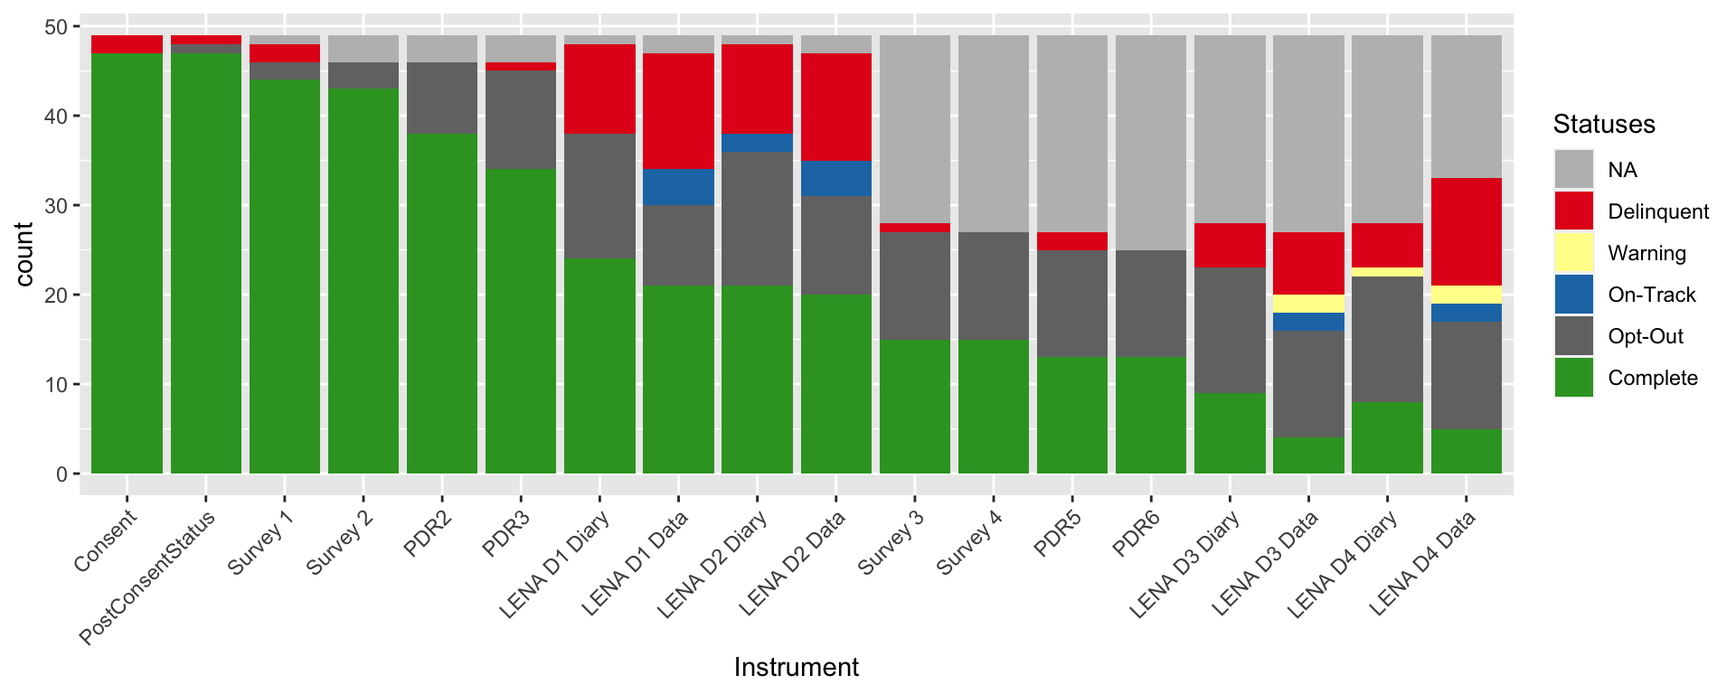
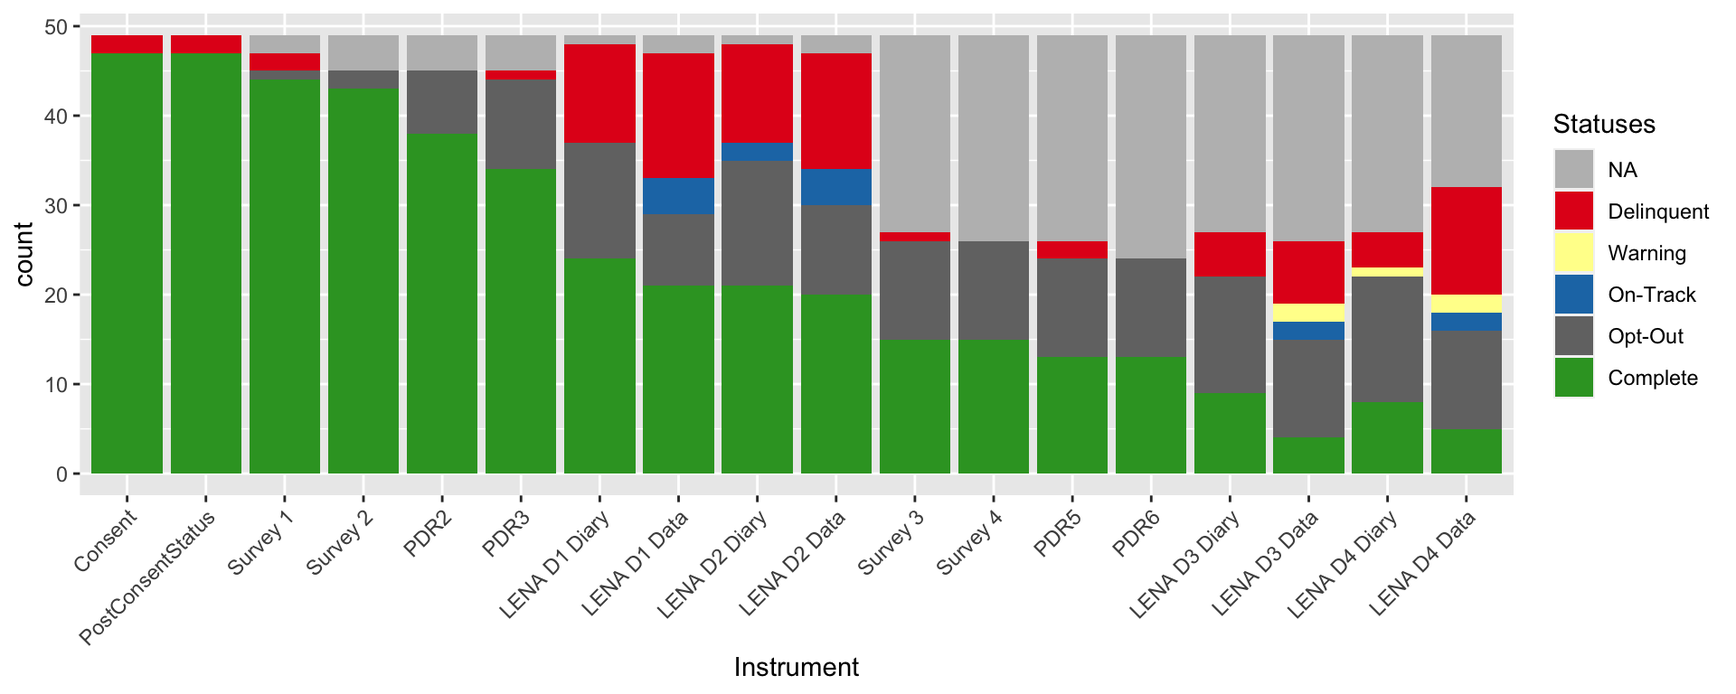
Updated case progression log, wave 2 dropouts.

diff --git a/_site/reports.html b/_site/reports.html
@@ -399,7 +399,7 @@ $(document).ready(function () {
 </div>
 <center>
 <div id="htmlwidget-1fcff53b1c506bc87854" style="width:960px;height:384px;" class="plotly html-widget"></div>
-<script type="application/json" data-for="htmlwidget-1fcff53b1c506bc87854">{"x":{"data":[{"x":[1594210295,1595855440,1595947129,1596636699,1597147658,1597190400,1597276800,1597402867,1598436608,1598538979,1598541299,1598955066,1599570320,1600250194,1600255992,1600300800,1600355481,1600387200,1600863340,1601302221,1601566658,1602239005,1603368728,1603379955,1603670400,1603977413,1604491899,1604751373,1605089156,1605139200,1605179257,1605721538,1605872792,1607040000,1607472000,1607644800,1607687486,1609891200,1609897301,1611187200,1611878400,1612396800,1612396800,1612396800,1611878400,1611187200,1609897301,1609891200,1607687486,1607644800,1607472000,1607040000,1605872792,1605721538,1605179257,1605139200,1605089156,1604751373,1604491899,1603977413,1603670400,1603379955,1603368728,1602239005,1601566658,1601302221,1600863340,1600387200,1600355481,1600300800,1600255992,1600250194,1599570320,1598955066,1598541299,1598538979,1598436608,1597402867,1597276800,1597190400,1597147658,1596636699,1595947129,1595855440,1594210295,1594210295],"y":[0,0,0,0,0,0,0,0,0,0,0,0,0,0,0,0,0,0,0,0,0,0,0,0,0,0,0,0,0,0,0,0,0,0,0,0,0,0,0,0,0,0,0,43,42,41,40,39,38,37,36,35,34,33,32,31,30,29,28,27,26,25,24,23,22,21,20,19,18,17,16,15,14,13,12,11,10,9,8,6,5,4,3,2,1,0],"text":["InformedConsent: 2020-07-08 19:11:35<br />Cumulative:  1","InformedConsent: 2020-07-27 20:10:40<br />Cumulative:  2","InformedConsent: 2020-07-28 21:38:49<br />Cumulative:  3","InformedConsent: 2020-08-05 21:11:39<br />Cumulative:  4","InformedConsent: 2020-08-11 19:07:38<br />Cumulative:  5","InformedConsent: 2020-08-12 07:00:00<br />Cumulative:  6","InformedConsent: 2020-08-13 07:00:00<br />Cumulative:  8","InformedConsent: 2020-08-14 18:01:07<br />Cumulative:  9","InformedConsent: 2020-08-26 17:10:08<br />Cumulative: 10","InformedConsent: 2020-08-27 21:36:19<br />Cumulative: 11","InformedConsent: 2020-08-27 22:14:59<br />Cumulative: 12","InformedConsent: 2020-09-01 17:11:06<br />Cumulative: 13","InformedConsent: 2020-09-08 20:05:20<br />Cumulative: 14","InformedConsent: 2020-09-16 16:56:34<br />Cumulative: 15","InformedConsent: 2020-09-16 18:33:12<br />Cumulative: 16","InformedConsent: 2020-09-17 07:00:00<br />Cumulative: 17","InformedConsent: 2020-09-17 22:11:21<br />Cumulative: 18","InformedConsent: 2020-09-18 07:00:00<br />Cumulative: 19","InformedConsent: 2020-09-23 19:15:40<br />Cumulative: 20","InformedConsent: 2020-09-28 21:10:21<br />Cumulative: 21","InformedConsent: 2020-10-01 22:37:38<br />Cumulative: 22","InformedConsent: 2020-10-09 17:23:25<br />Cumulative: 23","InformedConsent: 2020-10-22 19:12:08<br />Cumulative: 24","InformedConsent: 2020-10-22 22:19:15<br />Cumulative: 25","InformedConsent: 2020-10-26 07:00:00<br />Cumulative: 26","InformedConsent: 2020-10-29 20:16:53<br />Cumulative: 27","InformedConsent: 2020-11-04 20:11:39<br />Cumulative: 28","InformedConsent: 2020-11-07 20:16:13<br />Cumulative: 29","InformedConsent: 2020-11-11 18:05:56<br />Cumulative: 30","InformedConsent: 2020-11-12 08:00:00<br />Cumulative: 31","InformedConsent: 2020-11-12 19:07:37<br />Cumulative: 32","InformedConsent: 2020-11-19 01:45:38<br />Cumulative: 33","InformedConsent: 2020-11-20 19:46:32<br />Cumulative: 34","InformedConsent: 2020-12-04 08:00:00<br />Cumulative: 35","InformedConsent: 2020-12-09 08:00:00<br />Cumulative: 36","InformedConsent: 2020-12-11 08:00:00<br />Cumulative: 37","InformedConsent: 2020-12-11 19:51:26<br />Cumulative: 38","InformedConsent: 2021-01-06 08:00:00<br />Cumulative: 39","InformedConsent: 2021-01-06 09:41:41<br />Cumulative: 40","InformedConsent: 2021-01-21 08:00:00<br />Cumulative: 41","InformedConsent: 2021-01-29 08:00:00<br />Cumulative: 42","InformedConsent: 2021-02-04 08:00:00<br />Cumulative: 43","InformedConsent: 2021-02-04 08:00:00<br />Cumulative: 43","InformedConsent: 2021-02-04 08:00:00<br />Cumulative: 43","InformedConsent: 2021-01-29 08:00:00<br />Cumulative: 42","InformedConsent: 2021-01-21 08:00:00<br />Cumulative: 41","InformedConsent: 2021-01-06 09:41:41<br />Cumulative: 40","InformedConsent: 2021-01-06 08:00:00<br />Cumulative: 39","InformedConsent: 2020-12-11 19:51:26<br />Cumulative: 38","InformedConsent: 2020-12-11 08:00:00<br />Cumulative: 37","InformedConsent: 2020-12-09 08:00:00<br />Cumulative: 36","InformedConsent: 2020-12-04 08:00:00<br />Cumulative: 35","InformedConsent: 2020-11-20 19:46:32<br />Cumulative: 34","InformedConsent: 2020-11-19 01:45:38<br />Cumulative: 33","InformedConsent: 2020-11-12 19:07:37<br />Cumulative: 32","InformedConsent: 2020-11-12 08:00:00<br />Cumulative: 31","InformedConsent: 2020-11-11 18:05:56<br />Cumulative: 30","InformedConsent: 2020-11-07 20:16:13<br />Cumulative: 29","InformedConsent: 2020-11-04 20:11:39<br />Cumulative: 28","InformedConsent: 2020-10-29 20:16:53<br />Cumulative: 27","InformedConsent: 2020-10-26 07:00:00<br />Cumulative: 26","InformedConsent: 2020-10-22 22:19:15<br />Cumulative: 25","InformedConsent: 2020-10-22 19:12:08<br />Cumulative: 24","InformedConsent: 2020-10-09 17:23:25<br />Cumulative: 23","InformedConsent: 2020-10-01 22:37:38<br />Cumulative: 22","InformedConsent: 2020-09-28 21:10:21<br />Cumulative: 21","InformedConsent: 2020-09-23 19:15:40<br />Cumulative: 20","InformedConsent: 2020-09-18 07:00:00<br />Cumulative: 19","InformedConsent: 2020-09-17 22:11:21<br />Cumulative: 18","InformedConsent: 2020-09-17 07:00:00<br />Cumulative: 17","InformedConsent: 2020-09-16 18:33:12<br />Cumulative: 16","InformedConsent: 2020-09-16 16:56:34<br />Cumulative: 15","InformedConsent: 2020-09-08 20:05:20<br />Cumulative: 14","InformedConsent: 2020-09-01 17:11:06<br />Cumulative: 13","InformedConsent: 2020-08-27 22:14:59<br />Cumulative: 12","InformedConsent: 2020-08-27 21:36:19<br />Cumulative: 11","InformedConsent: 2020-08-26 17:10:08<br />Cumulative: 10","InformedConsent: 2020-08-14 18:01:07<br />Cumulative:  9","InformedConsent: 2020-08-13 07:00:00<br />Cumulative:  8","InformedConsent: 2020-08-12 07:00:00<br />Cumulative:  6","InformedConsent: 2020-08-11 19:07:38<br />Cumulative:  5","InformedConsent: 2020-08-05 21:11:39<br />Cumulative:  4","InformedConsent: 2020-07-28 21:38:49<br />Cumulative:  3","InformedConsent: 2020-07-27 20:10:40<br />Cumulative:  2","InformedConsent: 2020-07-08 19:11:35<br />Cumulative:  1","InformedConsent: 2020-07-08 19:11:35<br />Cumulative:  1"],"type":"scatter","mode":"lines","line":{"width":1.88976377952756,"color":"transparent","dash":"solid"},"fill":"toself","fillcolor":"rgba(105,179,162,0.5)","hoveron":"points","showlegend":false,"xaxis":"x","yaxis":"y","hoverinfo":"text","frame":null},{"x":[1594210295,1595855440,1595947129,1596636699,1597147658,1597190400,1597276800,1597402867,1598436608,1598538979,1598541299,1598955066,1599570320,1600250194,1600255992,1600300800,1600355481,1600387200,1600863340,1601302221,1601566658,1602239005,1603368728,1603379955,1603670400,1603977413,1604491899,1604751373,1605089156,1605139200,1605179257,1605721538,1605872792,1607040000,1607472000,1607644800,1607687486,1609891200,1609897301,1611187200,1611878400,1612396800,null],"y":[1,2,3,4,5,6,8,9,10,11,12,13,14,15,16,17,18,19,20,21,22,23,24,25,26,27,28,29,30,31,32,33,34,35,36,37,38,39,40,41,42,43,48],"text":["InformedConsent: 2020-07-08 12:11:35<br />Cumulative:  1","InformedConsent: 2020-07-27 13:10:40<br />Cumulative:  2","InformedConsent: 2020-07-28 14:38:49<br />Cumulative:  3","InformedConsent: 2020-08-05 14:11:39<br />Cumulative:  4","InformedConsent: 2020-08-11 12:07:38<br />Cumulative:  5","InformedConsent: 2020-08-12 00:00:00<br />Cumulative:  6","InformedConsent: 2020-08-13 00:00:00<br />Cumulative:  8","InformedConsent: 2020-08-14 11:01:07<br />Cumulative:  9","InformedConsent: 2020-08-26 10:10:08<br />Cumulative: 10","InformedConsent: 2020-08-27 14:36:19<br />Cumulative: 11","InformedConsent: 2020-08-27 15:14:59<br />Cumulative: 12","InformedConsent: 2020-09-01 10:11:06<br />Cumulative: 13","InformedConsent: 2020-09-08 13:05:20<br />Cumulative: 14","InformedConsent: 2020-09-16 09:56:34<br />Cumulative: 15","InformedConsent: 2020-09-16 11:33:12<br />Cumulative: 16","InformedConsent: 2020-09-17 00:00:00<br />Cumulative: 17","InformedConsent: 2020-09-17 15:11:21<br />Cumulative: 18","InformedConsent: 2020-09-18 00:00:00<br />Cumulative: 19","InformedConsent: 2020-09-23 12:15:40<br />Cumulative: 20","InformedConsent: 2020-09-28 14:10:21<br />Cumulative: 21","InformedConsent: 2020-10-01 15:37:38<br />Cumulative: 22","InformedConsent: 2020-10-09 10:23:25<br />Cumulative: 23","InformedConsent: 2020-10-22 12:12:08<br />Cumulative: 24","InformedConsent: 2020-10-22 15:19:15<br />Cumulative: 25","InformedConsent: 2020-10-26 00:00:00<br />Cumulative: 26","InformedConsent: 2020-10-29 13:16:53<br />Cumulative: 27","InformedConsent: 2020-11-04 12:11:39<br />Cumulative: 28","InformedConsent: 2020-11-07 12:16:13<br />Cumulative: 29","InformedConsent: 2020-11-11 10:05:56<br />Cumulative: 30","InformedConsent: 2020-11-12 00:00:00<br />Cumulative: 31","InformedConsent: 2020-11-12 11:07:37<br />Cumulative: 32","InformedConsent: 2020-11-18 17:45:38<br />Cumulative: 33","InformedConsent: 2020-11-20 11:46:32<br />Cumulative: 34","InformedConsent: 2020-12-04 00:00:00<br />Cumulative: 35","InformedConsent: 2020-12-09 00:00:00<br />Cumulative: 36","InformedConsent: 2020-12-11 00:00:00<br />Cumulative: 37","InformedConsent: 2020-12-11 11:51:26<br />Cumulative: 38","InformedConsent: 2021-01-06 00:00:00<br />Cumulative: 39","InformedConsent: 2021-01-06 01:41:41<br />Cumulative: 40","InformedConsent: 2021-01-21 00:00:00<br />Cumulative: 41","InformedConsent: 2021-01-29 00:00:00<br />Cumulative: 42","InformedConsent: 2021-02-04 00:00:00<br />Cumulative: 43","InformedConsent: NA<br />Cumulative: 48"],"type":"scatter","mode":"lines","line":{"width":1.88976377952756,"color":"rgba(105,179,162,1)","dash":"solid"},"hoveron":"points","showlegend":false,"xaxis":"x","yaxis":"y","hoverinfo":"text","frame":null}],"layout":{"margin":{"t":65.813200498132,"r":39.8505603985056,"b":80.8634288086343,"l":70.9007887090079},"font":{"color":"rgba(0,0,0,1)","family":"Arial Narrow","size":15.2760481527605},"xaxis":{"domain":[0,1],"automargin":true,"type":"linear","autorange":false,"range":[1593300969.75,1613306125.25],"tickmode":"array","ticktext":["Jul","Oct","Jan"],"tickvals":[1593561600,1601510400,1609459200],"categoryorder":"array","categoryarray":["Jul","Oct","Jan"],"nticks":null,"ticks":"","tickcolor":null,"ticklen":3.81901203819012,"tickwidth":0,"showticklabels":true,"tickfont":{"color":"rgba(77,77,77,1)","family":"Arial Narrow","size":15.2760481527605},"tickangle":-0,"showline":false,"linecolor":null,"linewidth":0,"showgrid":true,"gridcolor":"rgba(204,204,204,1)","gridwidth":0.265670402656704,"zeroline":false,"anchor":"y","title":{"text":"Time","font":{"color":"rgba(0,0,0,1)","family":"Arial Narrow","size":11.9551681195517}},"hoverformat":".2f"},"yaxis":{"domain":[0,1],"automargin":true,"type":"linear","autorange":false,"range":[-2.4,50.4],"tickmode":"array","ticktext":["0","10","20","30","40","50"],"tickvals":[0,10,20,30,40,50],"categoryorder":"array","categoryarray":["0","10","20","30","40","50"],"nticks":null,"ticks":"","tickcolor":null,"ticklen":3.81901203819012,"tickwidth":0,"showticklabels":true,"tickfont":{"color":"rgba(77,77,77,1)","family":"Arial Narrow","size":15.2760481527605},"tickangle":-0,"showline":false,"linecolor":null,"linewidth":0,"showgrid":true,"gridcolor":"rgba(204,204,204,1)","gridwidth":0.265670402656704,"zeroline":false,"anchor":"x","title":{"text":"Dyad Count","font":{"color":"rgba(0,0,0,1)","family":"Arial Narrow","size":11.9551681195517}},"hoverformat":".2f"},"shapes":[{"type":"rect","fillcolor":null,"line":{"color":null,"width":0,"linetype":[]},"yref":"paper","xref":"paper","x0":0,"x1":1,"y0":0,"y1":1}],"showlegend":false,"legend":{"bgcolor":null,"bordercolor":null,"borderwidth":0,"font":{"color":"rgba(0,0,0,1)","family":"Arial Narrow","size":12.2208385222084}},"hovermode":"closest","barmode":"relative"},"config":{"doubleClick":"reset","showSendToCloud":false},"source":"A","attrs":{"78405fe1b860":{"x":{},"y":{},"type":"scatter"},"78405c0fd7cd":{"x":{},"y":{}}},"cur_data":"78405fe1b860","visdat":{"78405fe1b860":["function (y) ","x"],"78405c0fd7cd":["function (y) ","x"]},"highlight":{"on":"plotly_click","persistent":false,"dynamic":false,"selectize":false,"opacityDim":0.2,"selected":{"opacity":1},"debounce":0},"shinyEvents":["plotly_hover","plotly_click","plotly_selected","plotly_relayout","plotly_brushed","plotly_brushing","plotly_clickannotation","plotly_doubleclick","plotly_deselect","plotly_afterplot","plotly_sunburstclick"],"base_url":"https://plot.ly"},"evals":[],"jsHooks":[]}</script><img src="reports_files/figure-html/SEAL%20Conditions%20Plot-2.png" width="960" />
+<script type="application/json" data-for="htmlwidget-1fcff53b1c506bc87854">{"x":{"data":[{"x":[1594210295,1595855440,1595947129,1596636699,1597147658,1597190400,1597276800,1597402867,1598436608,1598538979,1598541299,1598955066,1599570320,1600250194,1600255992,1600300800,1600355481,1600387200,1600863340,1601302221,1601566658,1602239005,1603368728,1603379955,1603670400,1603977413,1604491899,1604751373,1605089156,1605139200,1605179257,1605721538,1605872792,1607040000,1607472000,1607644800,1607687486,1609891200,1609897301,1611187200,1611878400,1612396800,1612396800,1612396800,1611878400,1611187200,1609897301,1609891200,1607687486,1607644800,1607472000,1607040000,1605872792,1605721538,1605179257,1605139200,1605089156,1604751373,1604491899,1603977413,1603670400,1603379955,1603368728,1602239005,1601566658,1601302221,1600863340,1600387200,1600355481,1600300800,1600255992,1600250194,1599570320,1598955066,1598541299,1598538979,1598436608,1597402867,1597276800,1597190400,1597147658,1596636699,1595947129,1595855440,1594210295,1594210295],"y":[0,0,0,0,0,0,0,0,0,0,0,0,0,0,0,0,0,0,0,0,0,0,0,0,0,0,0,0,0,0,0,0,0,0,0,0,0,0,0,0,0,0,0,43,42,41,40,39,38,37,36,35,34,33,32,31,30,29,28,27,26,25,24,23,22,21,20,19,18,17,16,15,14,13,12,11,10,9,8,6,5,4,3,2,1,0],"text":["InformedConsent: 2020-07-08 19:11:35<br />Cumulative:  1","InformedConsent: 2020-07-27 20:10:40<br />Cumulative:  2","InformedConsent: 2020-07-28 21:38:49<br />Cumulative:  3","InformedConsent: 2020-08-05 21:11:39<br />Cumulative:  4","InformedConsent: 2020-08-11 19:07:38<br />Cumulative:  5","InformedConsent: 2020-08-12 07:00:00<br />Cumulative:  6","InformedConsent: 2020-08-13 07:00:00<br />Cumulative:  8","InformedConsent: 2020-08-14 18:01:07<br />Cumulative:  9","InformedConsent: 2020-08-26 17:10:08<br />Cumulative: 10","InformedConsent: 2020-08-27 21:36:19<br />Cumulative: 11","InformedConsent: 2020-08-27 22:14:59<br />Cumulative: 12","InformedConsent: 2020-09-01 17:11:06<br />Cumulative: 13","InformedConsent: 2020-09-08 20:05:20<br />Cumulative: 14","InformedConsent: 2020-09-16 16:56:34<br />Cumulative: 15","InformedConsent: 2020-09-16 18:33:12<br />Cumulative: 16","InformedConsent: 2020-09-17 07:00:00<br />Cumulative: 17","InformedConsent: 2020-09-17 22:11:21<br />Cumulative: 18","InformedConsent: 2020-09-18 07:00:00<br />Cumulative: 19","InformedConsent: 2020-09-23 19:15:40<br />Cumulative: 20","InformedConsent: 2020-09-28 21:10:21<br />Cumulative: 21","InformedConsent: 2020-10-01 22:37:38<br />Cumulative: 22","InformedConsent: 2020-10-09 17:23:25<br />Cumulative: 23","InformedConsent: 2020-10-22 19:12:08<br />Cumulative: 24","InformedConsent: 2020-10-22 22:19:15<br />Cumulative: 25","InformedConsent: 2020-10-26 07:00:00<br />Cumulative: 26","InformedConsent: 2020-10-29 20:16:53<br />Cumulative: 27","InformedConsent: 2020-11-04 20:11:39<br />Cumulative: 28","InformedConsent: 2020-11-07 20:16:13<br />Cumulative: 29","InformedConsent: 2020-11-11 18:05:56<br />Cumulative: 30","InformedConsent: 2020-11-12 08:00:00<br />Cumulative: 31","InformedConsent: 2020-11-12 19:07:37<br />Cumulative: 32","InformedConsent: 2020-11-19 01:45:38<br />Cumulative: 33","InformedConsent: 2020-11-20 19:46:32<br />Cumulative: 34","InformedConsent: 2020-12-04 08:00:00<br />Cumulative: 35","InformedConsent: 2020-12-09 08:00:00<br />Cumulative: 36","InformedConsent: 2020-12-11 08:00:00<br />Cumulative: 37","InformedConsent: 2020-12-11 19:51:26<br />Cumulative: 38","InformedConsent: 2021-01-06 08:00:00<br />Cumulative: 39","InformedConsent: 2021-01-06 09:41:41<br />Cumulative: 40","InformedConsent: 2021-01-21 08:00:00<br />Cumulative: 41","InformedConsent: 2021-01-29 08:00:00<br />Cumulative: 42","InformedConsent: 2021-02-04 08:00:00<br />Cumulative: 43","InformedConsent: 2021-02-04 08:00:00<br />Cumulative: 43","InformedConsent: 2021-02-04 08:00:00<br />Cumulative: 43","InformedConsent: 2021-01-29 08:00:00<br />Cumulative: 42","InformedConsent: 2021-01-21 08:00:00<br />Cumulative: 41","InformedConsent: 2021-01-06 09:41:41<br />Cumulative: 40","InformedConsent: 2021-01-06 08:00:00<br />Cumulative: 39","InformedConsent: 2020-12-11 19:51:26<br />Cumulative: 38","InformedConsent: 2020-12-11 08:00:00<br />Cumulative: 37","InformedConsent: 2020-12-09 08:00:00<br />Cumulative: 36","InformedConsent: 2020-12-04 08:00:00<br />Cumulative: 35","InformedConsent: 2020-11-20 19:46:32<br />Cumulative: 34","InformedConsent: 2020-11-19 01:45:38<br />Cumulative: 33","InformedConsent: 2020-11-12 19:07:37<br />Cumulative: 32","InformedConsent: 2020-11-12 08:00:00<br />Cumulative: 31","InformedConsent: 2020-11-11 18:05:56<br />Cumulative: 30","InformedConsent: 2020-11-07 20:16:13<br />Cumulative: 29","InformedConsent: 2020-11-04 20:11:39<br />Cumulative: 28","InformedConsent: 2020-10-29 20:16:53<br />Cumulative: 27","InformedConsent: 2020-10-26 07:00:00<br />Cumulative: 26","InformedConsent: 2020-10-22 22:19:15<br />Cumulative: 25","InformedConsent: 2020-10-22 19:12:08<br />Cumulative: 24","InformedConsent: 2020-10-09 17:23:25<br />Cumulative: 23","InformedConsent: 2020-10-01 22:37:38<br />Cumulative: 22","InformedConsent: 2020-09-28 21:10:21<br />Cumulative: 21","InformedConsent: 2020-09-23 19:15:40<br />Cumulative: 20","InformedConsent: 2020-09-18 07:00:00<br />Cumulative: 19","InformedConsent: 2020-09-17 22:11:21<br />Cumulative: 18","InformedConsent: 2020-09-17 07:00:00<br />Cumulative: 17","InformedConsent: 2020-09-16 18:33:12<br />Cumulative: 16","InformedConsent: 2020-09-16 16:56:34<br />Cumulative: 15","InformedConsent: 2020-09-08 20:05:20<br />Cumulative: 14","InformedConsent: 2020-09-01 17:11:06<br />Cumulative: 13","InformedConsent: 2020-08-27 22:14:59<br />Cumulative: 12","InformedConsent: 2020-08-27 21:36:19<br />Cumulative: 11","InformedConsent: 2020-08-26 17:10:08<br />Cumulative: 10","InformedConsent: 2020-08-14 18:01:07<br />Cumulative:  9","InformedConsent: 2020-08-13 07:00:00<br />Cumulative:  8","InformedConsent: 2020-08-12 07:00:00<br />Cumulative:  6","InformedConsent: 2020-08-11 19:07:38<br />Cumulative:  5","InformedConsent: 2020-08-05 21:11:39<br />Cumulative:  4","InformedConsent: 2020-07-28 21:38:49<br />Cumulative:  3","InformedConsent: 2020-07-27 20:10:40<br />Cumulative:  2","InformedConsent: 2020-07-08 19:11:35<br />Cumulative:  1","InformedConsent: 2020-07-08 19:11:35<br />Cumulative:  1"],"type":"scatter","mode":"lines","line":{"width":1.88976377952756,"color":"transparent","dash":"solid"},"fill":"toself","fillcolor":"rgba(105,179,162,0.5)","hoveron":"points","showlegend":false,"xaxis":"x","yaxis":"y","hoverinfo":"text","frame":null},{"x":[1594210295,1595855440,1595947129,1596636699,1597147658,1597190400,1597276800,1597402867,1598436608,1598538979,1598541299,1598955066,1599570320,1600250194,1600255992,1600300800,1600355481,1600387200,1600863340,1601302221,1601566658,1602239005,1603368728,1603379955,1603670400,1603977413,1604491899,1604751373,1605089156,1605139200,1605179257,1605721538,1605872792,1607040000,1607472000,1607644800,1607687486,1609891200,1609897301,1611187200,1611878400,1612396800,null],"y":[1,2,3,4,5,6,8,9,10,11,12,13,14,15,16,17,18,19,20,21,22,23,24,25,26,27,28,29,30,31,32,33,34,35,36,37,38,39,40,41,42,43,48],"text":["InformedConsent: 2020-07-08 12:11:35<br />Cumulative:  1","InformedConsent: 2020-07-27 13:10:40<br />Cumulative:  2","InformedConsent: 2020-07-28 14:38:49<br />Cumulative:  3","InformedConsent: 2020-08-05 14:11:39<br />Cumulative:  4","InformedConsent: 2020-08-11 12:07:38<br />Cumulative:  5","InformedConsent: 2020-08-12 00:00:00<br />Cumulative:  6","InformedConsent: 2020-08-13 00:00:00<br />Cumulative:  8","InformedConsent: 2020-08-14 11:01:07<br />Cumulative:  9","InformedConsent: 2020-08-26 10:10:08<br />Cumulative: 10","InformedConsent: 2020-08-27 14:36:19<br />Cumulative: 11","InformedConsent: 2020-08-27 15:14:59<br />Cumulative: 12","InformedConsent: 2020-09-01 10:11:06<br />Cumulative: 13","InformedConsent: 2020-09-08 13:05:20<br />Cumulative: 14","InformedConsent: 2020-09-16 09:56:34<br />Cumulative: 15","InformedConsent: 2020-09-16 11:33:12<br />Cumulative: 16","InformedConsent: 2020-09-17 00:00:00<br />Cumulative: 17","InformedConsent: 2020-09-17 15:11:21<br />Cumulative: 18","InformedConsent: 2020-09-18 00:00:00<br />Cumulative: 19","InformedConsent: 2020-09-23 12:15:40<br />Cumulative: 20","InformedConsent: 2020-09-28 14:10:21<br />Cumulative: 21","InformedConsent: 2020-10-01 15:37:38<br />Cumulative: 22","InformedConsent: 2020-10-09 10:23:25<br />Cumulative: 23","InformedConsent: 2020-10-22 12:12:08<br />Cumulative: 24","InformedConsent: 2020-10-22 15:19:15<br />Cumulative: 25","InformedConsent: 2020-10-26 00:00:00<br />Cumulative: 26","InformedConsent: 2020-10-29 13:16:53<br />Cumulative: 27","InformedConsent: 2020-11-04 12:11:39<br />Cumulative: 28","InformedConsent: 2020-11-07 12:16:13<br />Cumulative: 29","InformedConsent: 2020-11-11 10:05:56<br />Cumulative: 30","InformedConsent: 2020-11-12 00:00:00<br />Cumulative: 31","InformedConsent: 2020-11-12 11:07:37<br />Cumulative: 32","InformedConsent: 2020-11-18 17:45:38<br />Cumulative: 33","InformedConsent: 2020-11-20 11:46:32<br />Cumulative: 34","InformedConsent: 2020-12-04 00:00:00<br />Cumulative: 35","InformedConsent: 2020-12-09 00:00:00<br />Cumulative: 36","InformedConsent: 2020-12-11 00:00:00<br />Cumulative: 37","InformedConsent: 2020-12-11 11:51:26<br />Cumulative: 38","InformedConsent: 2021-01-06 00:00:00<br />Cumulative: 39","InformedConsent: 2021-01-06 01:41:41<br />Cumulative: 40","InformedConsent: 2021-01-21 00:00:00<br />Cumulative: 41","InformedConsent: 2021-01-29 00:00:00<br />Cumulative: 42","InformedConsent: 2021-02-04 00:00:00<br />Cumulative: 43","InformedConsent: NA<br />Cumulative: 48"],"type":"scatter","mode":"lines","line":{"width":1.88976377952756,"color":"rgba(105,179,162,1)","dash":"solid"},"hoveron":"points","showlegend":false,"xaxis":"x","yaxis":"y","hoverinfo":"text","frame":null}],"layout":{"margin":{"t":65.813200498132,"r":39.8505603985056,"b":80.8634288086343,"l":70.9007887090079},"font":{"color":"rgba(0,0,0,1)","family":"Arial Narrow","size":15.2760481527605},"xaxis":{"domain":[0,1],"automargin":true,"type":"linear","autorange":false,"range":[1593300969.75,1613306125.25],"tickmode":"array","ticktext":["Jul","Oct","Jan"],"tickvals":[1593561600,1601510400,1609459200],"categoryorder":"array","categoryarray":["Jul","Oct","Jan"],"nticks":null,"ticks":"","tickcolor":null,"ticklen":3.81901203819012,"tickwidth":0,"showticklabels":true,"tickfont":{"color":"rgba(77,77,77,1)","family":"Arial Narrow","size":15.2760481527605},"tickangle":-0,"showline":false,"linecolor":null,"linewidth":0,"showgrid":true,"gridcolor":"rgba(204,204,204,1)","gridwidth":0.265670402656704,"zeroline":false,"anchor":"y","title":{"text":"Time","font":{"color":"rgba(0,0,0,1)","family":"Arial Narrow","size":11.9551681195517}},"hoverformat":".2f"},"yaxis":{"domain":[0,1],"automargin":true,"type":"linear","autorange":false,"range":[-2.4,50.4],"tickmode":"array","ticktext":["0","10","20","30","40","50"],"tickvals":[0,10,20,30,40,50],"categoryorder":"array","categoryarray":["0","10","20","30","40","50"],"nticks":null,"ticks":"","tickcolor":null,"ticklen":3.81901203819012,"tickwidth":0,"showticklabels":true,"tickfont":{"color":"rgba(77,77,77,1)","family":"Arial Narrow","size":15.2760481527605},"tickangle":-0,"showline":false,"linecolor":null,"linewidth":0,"showgrid":true,"gridcolor":"rgba(204,204,204,1)","gridwidth":0.265670402656704,"zeroline":false,"anchor":"x","title":{"text":"Dyad Count","font":{"color":"rgba(0,0,0,1)","family":"Arial Narrow","size":11.9551681195517}},"hoverformat":".2f"},"shapes":[{"type":"rect","fillcolor":null,"line":{"color":null,"width":0,"linetype":[]},"yref":"paper","xref":"paper","x0":0,"x1":1,"y0":0,"y1":1}],"showlegend":false,"legend":{"bgcolor":null,"bordercolor":null,"borderwidth":0,"font":{"color":"rgba(0,0,0,1)","family":"Arial Narrow","size":12.2208385222084}},"hovermode":"closest","barmode":"relative"},"config":{"doubleClick":"reset","showSendToCloud":false},"source":"A","attrs":{"92f524ab55bd":{"x":{},"y":{},"type":"scatter"},"92f56c89fe19":{"x":{},"y":{}}},"cur_data":"92f524ab55bd","visdat":{"92f524ab55bd":["function (y) ","x"],"92f56c89fe19":["function (y) ","x"]},"highlight":{"on":"plotly_click","persistent":false,"dynamic":false,"selectize":false,"opacityDim":0.2,"selected":{"opacity":1},"debounce":0},"shinyEvents":["plotly_hover","plotly_click","plotly_selected","plotly_relayout","plotly_brushed","plotly_brushing","plotly_clickannotation","plotly_doubleclick","plotly_deselect","plotly_afterplot","plotly_sunburstclick"],"base_url":"https://plot.ly"},"evals":[],"jsHooks":[]}</script><img src="reports_files/figure-html/SEAL%20Conditions%20Plot-2.png" width="960" />
 <center>
 <div>
 

diff --git a/_site/enrollment.html b/_site/enrollment.html
@@ -411,10 +411,10 @@ $(document).ready(function () {
 <a href="#" class="btn btn-primary"><strong>Wave 1 Complete</strong><br>24</a>
 </div>
 <div class="btn-group">
-<a href="#" class="btn btn-primary"><strong>Wave 1 In Progress</strong><br>13</a>
+<a href="#" class="btn btn-primary"><strong>Wave 1 In Progress</strong><br>14</a>
 </div>
 <div class="btn-group">
-<a href="#" class="btn btn-primary"><strong>Wave 1 Drop-Outs</strong><br> 9 </a>
+<a href="#" class="btn btn-primary"><strong>Wave 1 Drop-Outs</strong><br> 5 </a>
 </div>
 </div>
 <div class="btn-group btn-group-justified">
@@ -422,15 +422,15 @@ $(document).ready(function () {
 <a href="#" class="btn btn-success"><strong>Intervention Complete</strong><br>16</a>
 </div>
 <div class="btn-group">
-<a href="#" class="btn btn-success"><strong>Intervention In Progress</strong><br>12</a>
+<a href="#" class="btn btn-success"><strong>Intervention In Progress</strong><br>11</a>
 </div>
 <div class="btn-group">
-<a href="#" class="btn btn-success"><strong>Intervention Drop-Outs</strong><br>3 </a>
+<a href="#" class="btn btn-success"><strong>Intervention Drop-Outs</strong><br>6 </a>
 </div>
 </div>
 <div class="btn-group btn-group-justified">
 <div class="btn-group">
-<a href="#" class="btn btn-info"><strong>Wave 2 Complete</strong><br>10</a>
+<a href="#" class="btn btn-info"><strong>Wave 2 Complete</strong><br>11</a>
 </div>
 <div class="btn-group">
 <a href="#" class="btn btn-info"><strong>Wave 2 In Progress</strong><br>0</a>
@@ -444,7 +444,7 @@ $(document).ready(function () {
 <a href="#" class="btn btn-warning"><strong>Wave 3 Complete</strong><br>TBD</a>
 </div>
 <div class="btn-group">
-<a href="#" class="btn btn-warning"><strong>Wave 3 In Progress</strong><br>10</a>
+<a href="#" class="btn btn-warning"><strong>Wave 3 In Progress</strong><br>11</a>
 </div>
 <div class="btn-group">
 <a href="#" class="btn btn-warning"><strong>Wave 3 Drop-Outs</strong><br>0 </a>
@@ -455,10 +455,10 @@ $(document).ready(function () {
 <a href="#" class="btn btn-danger"><strong>Total Complete with Study</strong><br>TBD</a>
 </div>
 <div class="btn-group">
-<a href="#" class="btn btn-danger"><strong>Total In Progress</strong><br> 35 </a>
+<a href="#" class="btn btn-danger"><strong>Total In Progress</strong><br> 36 </a>
 </div>
 <div class="btn-group">
-<a href="#" class="btn btn-danger"><strong>Total Drop-Outs</strong><br>12</a>
+<a href="#" class="btn btn-danger"><strong>Total Drop-Outs</strong><br>11</a>
 </div>
 </div>
 </div>
@@ -528,16 +528,16 @@ Post Consent
 47
 </td>
 <td style="text-align:right;">
-1
-</td>
-<td style="text-align:right;">
 0
 </td>
 <td style="text-align:right;">
 0
 </td>
 <td style="text-align:right;">
-1
+0
+</td>
+<td style="text-align:right;">
+2
 </td>
 <td style="text-align:right;">
 0
@@ -551,19 +551,19 @@ Survey 1
 44
 </td>
 <td style="text-align:right;">
-2
-</td>
-<td style="text-align:right;">
-0
-</td>
-<td style="text-align:right;">
-0
-</td>
-<td style="text-align:right;">
-2
-</td>
-<td style="text-align:right;">
 1
+</td>
+<td style="text-align:right;">
+0
+</td>
+<td style="text-align:right;">
+0
+</td>
+<td style="text-align:right;">
+2
+</td>
+<td style="text-align:right;">
+2
 </td>
 </tr>
 <tr>
@@ -574,7 +574,7 @@ Survey 2
 43
 </td>
 <td style="text-align:right;">
-3
+2
 </td>
 <td style="text-align:right;">
 0
@@ -586,7 +586,7 @@ Survey 2
 0
 </td>
 <td style="text-align:right;">
-3
+4
 </td>
 </tr>
 <tr>
@@ -597,7 +597,7 @@ PDR2
 38
 </td>
 <td style="text-align:right;">
-8
+7
 </td>
 <td style="text-align:right;">
 0
@@ -609,7 +609,7 @@ PDR2
 0
 </td>
 <td style="text-align:right;">
-3
+4
 </td>
 </tr>
 <tr>
@@ -620,7 +620,7 @@ PDR3
 34
 </td>
 <td style="text-align:right;">
-11
+10
 </td>
 <td style="text-align:right;">
 0
@@ -632,7 +632,7 @@ PDR3
 1
 </td>
 <td style="text-align:right;">
-3
+4
 </td>
 </tr>
 <tr>
@@ -643,7 +643,7 @@ LENA D1 Diary
 24
 </td>
 <td style="text-align:right;">
-14
+13
 </td>
 <td style="text-align:right;">
 0
@@ -652,7 +652,7 @@ LENA D1 Diary
 0
 </td>
 <td style="text-align:right;">
-10
+11
 </td>
 <td style="text-align:right;">
 1
@@ -666,7 +666,7 @@ LENA D1 Data
 21
 </td>
 <td style="text-align:right;">
-9
+8
 </td>
 <td style="text-align:right;">
 4
@@ -675,7 +675,7 @@ LENA D1 Data
 0
 </td>
 <td style="text-align:right;">
-13
+14
 </td>
 <td style="text-align:right;">
 2
@@ -689,7 +689,7 @@ LENA D2 Diary
 21
 </td>
 <td style="text-align:right;">
-15
+14
 </td>
 <td style="text-align:right;">
 2
@@ -698,7 +698,7 @@ LENA D2 Diary
 0
 </td>
 <td style="text-align:right;">
-10
+11
 </td>
 <td style="text-align:right;">
 1
@@ -712,7 +712,7 @@ LENA D2 Data
 20
 </td>
 <td style="text-align:right;">
-11
+10
 </td>
 <td style="text-align:right;">
 4
@@ -721,7 +721,7 @@ LENA D2 Data
 0
 </td>
 <td style="text-align:right;">
-12
+13
 </td>
 <td style="text-align:right;">
 2
@@ -735,7 +735,7 @@ Survey 3
 15
 </td>
 <td style="text-align:right;">
-12
+11
 </td>
 <td style="text-align:right;">
 0
@@ -747,7 +747,7 @@ Survey 3
 1
 </td>
 <td style="text-align:right;">
-21
+22
 </td>
 </tr>
 <tr>
@@ -758,7 +758,7 @@ Survey 4
 15
 </td>
 <td style="text-align:right;">
-12
+11
 </td>
 <td style="text-align:right;">
 0
@@ -770,7 +770,7 @@ Survey 4
 0
 </td>
 <td style="text-align:right;">
-22
+23
 </td>
 </tr>
 <tr>
@@ -781,7 +781,7 @@ PDR5
 13
 </td>
 <td style="text-align:right;">
-12
+11
 </td>
 <td style="text-align:right;">
 0
@@ -793,7 +793,7 @@ PDR5
 2
 </td>
 <td style="text-align:right;">
-22
+23
 </td>
 </tr>
 <tr>
@@ -804,7 +804,7 @@ PDR6
 13
 </td>
 <td style="text-align:right;">
-12
+11
 </td>
 <td style="text-align:right;">
 0
@@ -816,7 +816,7 @@ PDR6
 0
 </td>
 <td style="text-align:right;">
-24
+25
 </td>
 </tr>
 <tr>
@@ -827,7 +827,7 @@ LENA D3 Diary
 9
 </td>
 <td style="text-align:right;">
-14
+13
 </td>
 <td style="text-align:right;">
 0
@@ -839,7 +839,7 @@ LENA D3 Diary
 5
 </td>
 <td style="text-align:right;">
-21
+22
 </td>
 </tr>
 <tr>
@@ -850,7 +850,7 @@ LENA D3 Data
 4
 </td>
 <td style="text-align:right;">
-12
+11
 </td>
 <td style="text-align:right;">
 2
@@ -862,7 +862,7 @@ LENA D3 Data
 7
 </td>
 <td style="text-align:right;">
-22
+23
 </td>
 </tr>
 <tr>
@@ -882,10 +882,10 @@ LENA D4 Diary
 1
 </td>
 <td style="text-align:right;">
-5
+4
 </td>
 <td style="text-align:right;">
-21
+22
 </td>
 </tr>
 <tr>
@@ -896,7 +896,7 @@ LENA D4 Data
 5
 </td>
 <td style="text-align:right;">
-12
+11
 </td>
 <td style="text-align:right;">
 2
@@ -908,7 +908,7 @@ LENA D4 Data
 12
 </td>
 <td style="text-align:right;">
-16
+17
 </td>
 </tr>
 </tbody>
